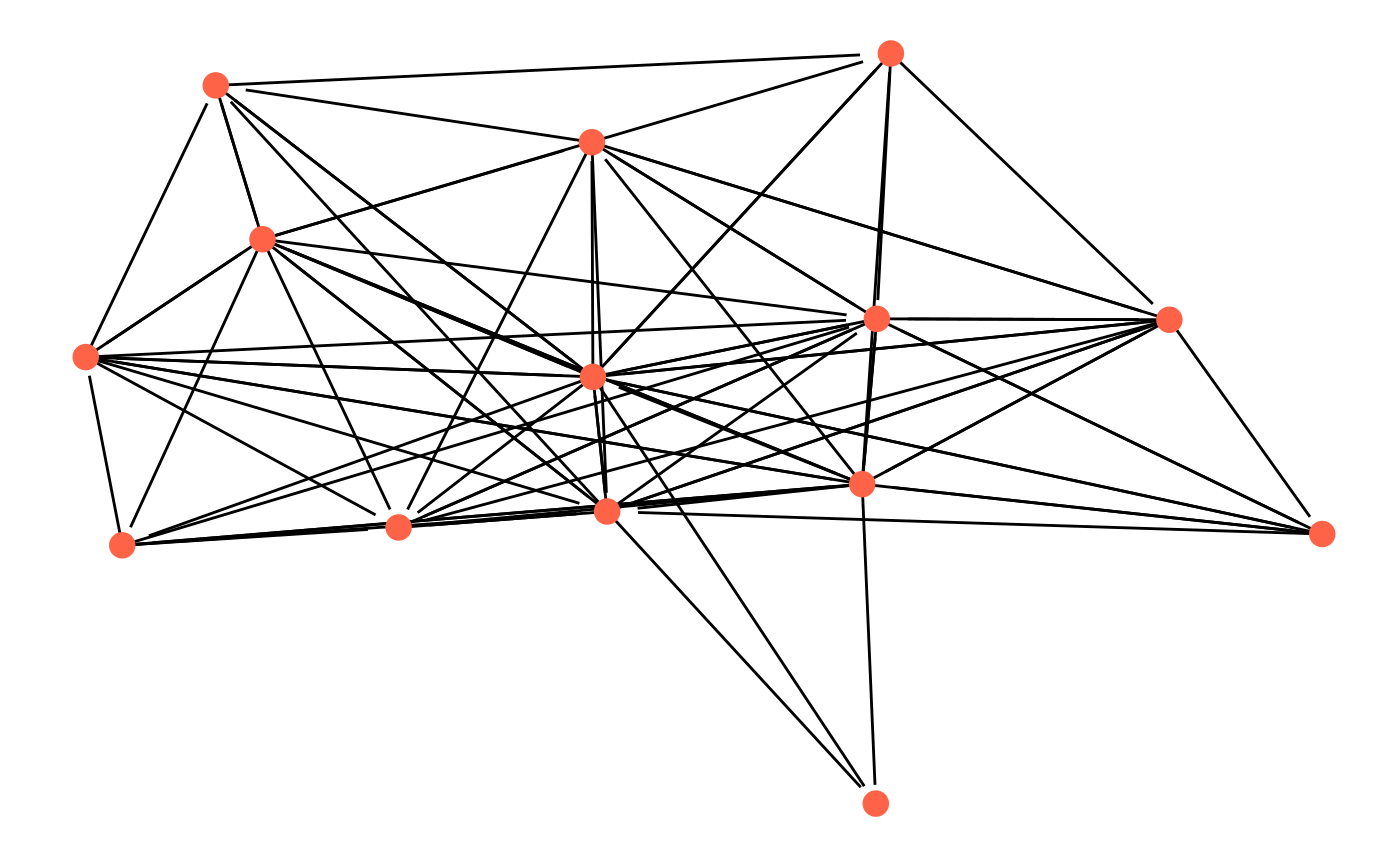
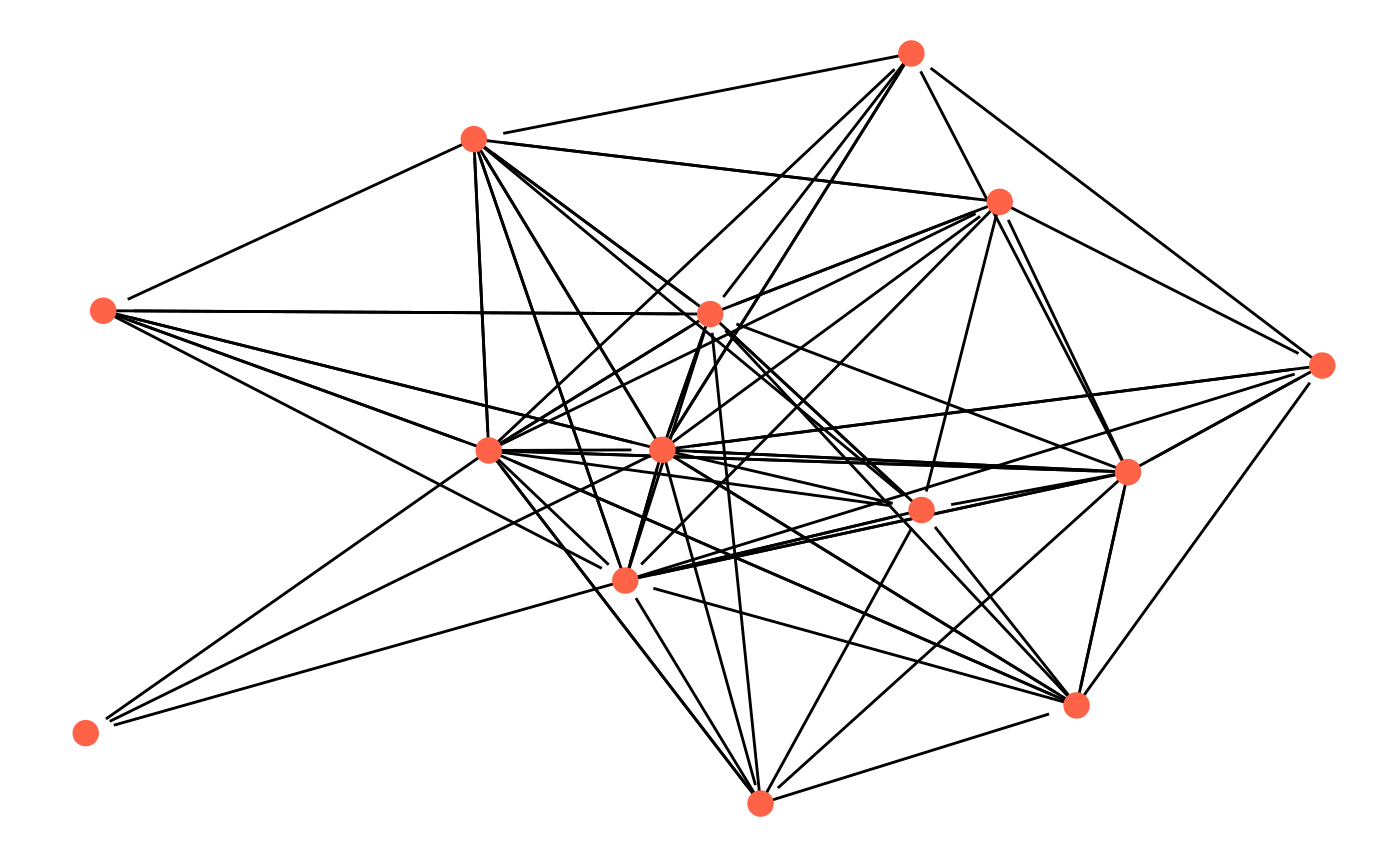
Built site for ggnetwork: 0.5.6.9000@0ca6f43

diff --git a/dev/articles/ggnetwork.html b/dev/articles/ggnetwork.html
@@ -121,7 +121,7 @@
 ##                 colour = NA), panel.border = ggplot2::element_blank(), 
 ##             panel.grid = ggplot2::element_blank(), ...)
 ## }
-## &lt;bytecode: 0x2057b58&gt;
+## &lt;bytecode: 0x2267b30&gt;
 ## &lt;environment: namespace:ggnetwork&gt;</code></pre>
 </div>
 <div id="main-building-blocks" class="section level2">
@@ -140,36 +140,36 @@
 <p>The <code>layout</code> argument will also accept user-submitted coordinates as a two-column matrix with as many rows as the number of nodes in the network.</p>
 <p>The top of the data frame produced by <code>ggnetwork</code> contains self-loops to force every node to be included in the plot. This explains why the rows shown below have the same values in <code>"x"</code> and <code>"xend"</code> (and in <code>"y"</code> and <code>"yend"</code>), and only missing values in the columns corresponding to the edge attributes:</p>
 <div class="sourceCode" id="cb10"><pre class="sourceCode r"><code class="sourceCode r"><a class="sourceLine" id="cb10-1" data-line-number="1"><span class="kw"><a href="https://www.rdocumentation.org/packages/utils/topics/head">head</a></span>(<span class="kw"><a href="../reference/ggnetwork.html">ggnetwork</a></span>(n))</a></code></pre></div>
-<pre><code>##            x         y family importance  na.x vertex.names       xend
-## 1 0.18577752 0.9959840      c          1 FALSE            1 0.18577752
-## 2 0.08835639 0.7333485      b          2 FALSE            2 0.08835639
-## 3 0.27415369 0.5143863      c          2 FALSE            3 0.27415369
-## 4 0.39897175 0.6183260      a          1 FALSE            4 0.39897175
-## 5 0.56124463 0.8743320      c          1 FALSE            5 0.56124463
-## 6 0.38120318 1.0000000      b          3 FALSE            6 0.38120318
+<pre><code>##           x         y family importance  na.x vertex.names      xend
+## 1 0.7705672 0.2826553      b          3 FALSE            1 0.7705672
+## 2 1.0000000 0.7063782      a          2 FALSE            2 1.0000000
+## 3 0.2291460 0.3044449      b          1 FALSE            3 0.2291460
+## 4 0.2534146 0.5716265      c          3 FALSE            4 0.2534146
+## 5 0.1708415 1.0000000      a          2 FALSE            5 0.1708415
+## 6 0.5205820 0.9958993      a          2 FALSE            6 0.5205820
 ##        yend day na.y type
-## 1 0.9959840  NA   NA &lt;NA&gt;
-## 2 0.7333485  NA   NA &lt;NA&gt;
-## 3 0.5143863  NA   NA &lt;NA&gt;
-## 4 0.6183260  NA   NA &lt;NA&gt;
-## 5 0.8743320  NA   NA &lt;NA&gt;
-## 6 1.0000000  NA   NA &lt;NA&gt;</code></pre>
+## 1 0.2826553  NA   NA &lt;NA&gt;
+## 2 0.7063782  NA   NA &lt;NA&gt;
+## 3 0.3044449  NA   NA &lt;NA&gt;
+## 4 0.5716265  NA   NA &lt;NA&gt;
+## 5 1.0000000  NA   NA &lt;NA&gt;
+## 6 0.9958993  NA   NA &lt;NA&gt;</code></pre>
 <p>The next rows of the data frame contain the actual edges:</p>
 <div class="sourceCode" id="cb12"><pre class="sourceCode r"><code class="sourceCode r"><a class="sourceLine" id="cb12-1" data-line-number="1"><span class="kw"><a href="https://www.rdocumentation.org/packages/utils/topics/head">tail</a></span>(<span class="kw"><a href="../reference/ggnetwork.html">ggnetwork</a></span>(n))</a></code></pre></div>
 <pre><code>##            x         y family importance  na.x vertex.names      xend
-## 16 0.4272563 1.0000000      c          1 FALSE            5 0.2107614
-## 17 0.4272563 1.0000000      c          1 FALSE            5 0.3758682
-## 18 0.5722838 0.7021456      b          3 FALSE            6 0.2107614
-## 19 0.5722838 0.7021456      b          3 FALSE            6 0.3758682
-## 20 0.5722838 0.7021456      b          3 FALSE            6 0.3033271
-## 21 0.5722838 0.7021456      b          3 FALSE            6 0.4272563
+## 19 0.6836904 0.4066006      a          2 FALSE            8 0.8237961
+## 20 0.6836904 0.4066006      a          2 FALSE            8 1.0000000
+## 21 0.7830023 0.9172073      c          3 FALSE            4 0.3123895
+## 22 0.8237961 0.1793987      a          2 FALSE            6 1.0000000
+## 23 0.8237961 0.1793987      a          2 FALSE            6 0.7830023
+## 24 0.8237961 0.1793987      a          2 FALSE            6 0.3182459
 ##         yend day  na.y type
-## 16 0.6465634   2 FALSE    y
-## 17 0.5769219   3 FALSE    y
-## 18 0.6465634   3 FALSE    z
-## 19 0.5769219   3 FALSE    z
-## 20 0.4159304   1 FALSE    z
-## 21 1.0000000   2 FALSE    y</code></pre>
+## 19 0.1793987   2 FALSE    z
+## 20 0.6061047   1 FALSE    x
+## 21 0.9985326   1 FALSE    y
+## 22 0.6061047   1 FALSE    x
+## 23 0.9172073   1 FALSE    y
+## 24 0.2665761   1 FALSE    x</code></pre>
 <p>The data frame returned by <code>ggnetwork</code> has (<em>N</em> + <em>E</em>) rows, where <em>N</em> is the number of nodes of the network, and <em>E</em> its number of edges. This data format is very likely to include duplicate information about the nodes, which is unavoidable.</p>
 <p>Note that <code>ggnetwork</code> does not include any safety mechanism against duplicate column names. As a consequence, if there is both a vertex attribute called <code>"na"</code> and an edge attribute called <code>"na"</code>, as in the example above, then the vertex attribute will be renamed <code>"na.x"</code> and the edge attribute will be renamed <code>"na.y"</code>.</p>
 </div>
@@ -359,7 +359,7 @@
 ##         ggplot2::theme(panel.border = ggplot2::element_rect(fill = NA, 
 ##             color = "grey50"), ...)
 ## }
-## &lt;bytecode: 0x6686620&gt;
+## &lt;bytecode: 0x60cf878&gt;
 ## &lt;environment: namespace:ggnetwork&gt;</code></pre>
 </div>
 </div>

diff --git a/dev/news/index.html b/dev/news/index.html
@@ -111,6 +111,11 @@
 <a href="#ggnetwork-0-5-6" class="anchor"></a>ggnetwork 0.5.6<small> Unreleased </small>
 </h1>
 <p>Due to a bugfix in <code>statnet.common</code> 4.2.0, <code>ggnetwork</code> now requires R ≥ 3.5 (<a href='https://github.com/briatte/ggnetwork/issues/45'>#45</a>).</p>
+<div id="minor-improvements-and-fixes" class="section level2">
+<h2 class="hasAnchor">
+<a href="#minor-improvements-and-fixes" class="anchor"></a>Minor improvements and fixes</h2>
+<p>Finished fixing a bug affecting 2-node, 1-tie networks of class <code>igraph</code> (<a href='https://github.com/briatte/ggnetwork/issues/12'>#12</a>). Thanks to <a href="https://github.com/mcanouil">Mickaël Canouil</a> (<a href='https://github.com/briatte/ggnetwork/issues/20'>#20</a>) and <a href="https://github.com/zachcp">Zachary Charlop-Powers</a> (<a href='https://github.com/briatte/ggnetwork/issues/24'>#24</a>).</p>
+</div>
 </div>
     <div id="ggnetwork-0-5-5" class="section level1">
 <h1 class="page-header">
@@ -145,9 +150,9 @@
 <li>Add <code>ggnetwork.Rproj</code>, for ease of use within Rstudio.</li>
 </ul>
 </div>
-<div id="minor-improvements-and-fixes" class="section level2">
+<div id="minor-improvements-and-fixes-1" class="section level2">
 <h2 class="hasAnchor">
-<a href="#minor-improvements-and-fixes" class="anchor"></a>Minor improvements and fixes</h2>
+<a href="#minor-improvements-and-fixes-1" class="anchor"></a>Minor improvements and fixes</h2>
 <ul>
 <li>In <code>DESCRIPTION</code>,
 <ul>
@@ -182,9 +187,9 @@
 <a href="#ggnetwork-0-5-4" class="anchor"></a>ggnetwork 0.5.4<small> Unreleased </small>
 </h1>
 <p>Added native support for <code>igraph</code>. Thanks to <a href="https://github.com/jcfisher">Jake Fisher</a> (<a href='https://github.com/briatte/ggnetwork/issues/25'>#25</a>).</p>
-<div id="minor-improvements-and-fixes-1" class="section level2">
+<div id="minor-improvements-and-fixes-2" class="section level2">
 <h2 class="hasAnchor">
-<a href="#minor-improvements-and-fixes-1" class="anchor"></a>Minor improvements and fixes</h2>
+<a href="#minor-improvements-and-fixes-2" class="anchor"></a>Minor improvements and fixes</h2>
 <p>Fix for network layouts with constant coordinates. Thanks to <a href="https://github.com/kippjohnson">Kipp Johnson</a> (<a href='https://github.com/briatte/ggnetwork/issues/32'>#32</a>).</p>
 </div>
 </div>
@@ -197,9 +202,9 @@
 <a href="#repository-changes-1" class="anchor"></a>Repository changes</h2>
 <p>Added Travis CI. Thanks to <a href="https://github.com/koheiw">Kohei Watanabe</a> (<a href='https://github.com/briatte/ggnetwork/issues/26'>#26</a>).</p>
 </div>
-<div id="minor-improvements-and-fixes-2" class="section level2">
+<div id="minor-improvements-and-fixes-3" class="section level2">
 <h2 class="hasAnchor">
-<a href="#minor-improvements-and-fixes-2" class="anchor"></a>Minor improvements and fixes</h2>
+<a href="#minor-improvements-and-fixes-3" class="anchor"></a>Minor improvements and fixes</h2>
 <ul>
 <li><p>Export <code><a href="https://ggplot2.tidyverse.org/reference/ggplot2-ggproto.html">ggplot2::Stat</a></code> to enable loading <code>ggnetwork</code> first (<a href='https://github.com/briatte/ggnetwork/issues/14'>#14</a>). Thanks to <a href="https://github.com/trinker">Tyler Rinker</a>.</p></li>
 <li><p>Built with the new version of <code>ggproto</code> (<a href='https://github.com/briatte/ggnetwork/issues/11'>#11</a>).</p></li>
@@ -211,9 +216,9 @@
 <h1 class="page-header">
 <a href="#ggnetwork-0-5-2-2016-05-01" class="anchor"></a>ggnetwork 0.5.2 (2016-05-01)<small> Unreleased </small>
 </h1>
-<div id="minor-improvements-and-fixes-3" class="section level2">
+<div id="minor-improvements-and-fixes-4" class="section level2">
 <h2 class="hasAnchor">
-<a href="#minor-improvements-and-fixes-3" class="anchor"></a>Minor improvements and fixes</h2>
+<a href="#minor-improvements-and-fixes-4" class="anchor"></a>Minor improvements and fixes</h2>
 <ul>
 <li><p>Fixed a bug that removed labels from strictly vertical or strictly horizontal edges (<a href='https://github.com/briatte/ggnetwork/issues/5'>#5</a>).</p></li>
 <li><p>Fixed a small documentation issue that was corrected in <code>roxygen</code> 5.0.2 (<a href='https://github.com/briatte/ggnetwork/issues/4'>#4</a>).</p></li>
